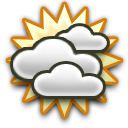
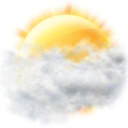
Major refactoring of the refresh logic.  Also, new image theme.

diff --git a/WeatherView.mm b/WeatherView.mm
@@ -10,8 +10,10 @@
 #import "WeatherView.h"
 #import <substrate.h>
 #import <SpringBoard/SBApplicationIcon.h>
+#import <SpringBoard/SleepProofTimer.h>
 #import <UIKit/UIStringDrawing.h>
 #import <UIKit/UIKit.h>
+#import <Foundation/NSObjCRuntime.h>
 
 @implementation WeatherView
 
@@ -19,6 +21,24 @@
 @synthesize location;
 @synthesize temp;
 @synthesize code;
+@synthesize refreshInterval;
+@synthesize nextRefreshTime;
+@synthesize lastUpdateTime;
+
++ (NSDictionary*) preferences
+{
+	NSBundle* bundle = [NSBundle mainBundle];
+	NSString* settingsPath = [bundle pathForResource:@"com.ashman.WeatherIcon" ofType:@"plist"];
+	NSLog(@"WI: Settings: %@", settingsPath);
+	if (settingsPath)
+	{
+		NSDictionary* dict = [[NSDictionary alloc] initWithContentsOfFile:settingsPath];
+		[dict autorelease];
+		return dict;
+	}
+
+	return nil;
+}
 
 - (id) initWithIcon:(SBApplicationIcon*)icon
 {
@@ -28,15 +48,13 @@
 	self.temp = @"?";
 	self.code = @"3200";
 	self.isCelsius = false;
+	self.refreshInterval = 900;
+	self.opaque = NO;
+	self.userInteractionEnabled = NO;
 
-	NSBundle* bundle = [NSBundle mainBundle];
-	NSString* settingsPath = [bundle pathForResource:@"com.ashman.WeatherIcon" ofType:@"plist"];
-	NSLog(@"WI: Settings: %@", settingsPath);
-	if (settingsPath)
+	NSDictionary* dict = [WeatherView preferences];
+	if (dict)
 	{
-		NSDictionary* dict = [[NSDictionary alloc] initWithContentsOfFile:settingsPath];
-		[dict autorelease];
-
 		if (NSString* loc = [dict objectForKey:@"Location"])
 			self.location = [[NSString alloc] initWithString:loc];
 		NSLog(@"WI: Location: %@", self.location);
@@ -44,19 +62,21 @@
 		if (NSNumber* celsius = [dict objectForKey:@"Celsius"])
 			self.isCelsius = [celsius boolValue];
 		NSLog(@"WI: Celsius: %@", (self.isCelsius ? @"YES" : @"NO"));
+
+		if (NSNumber* interval = [dict objectForKey:@"RefreshInterval"])
+			self.refreshInterval = ([interval intValue] * 60);
+		NSLog(@"WI: Refresh Interval: %d seconds", self.refreshInterval);
 	}	
 	
         _icon = icon;
 
 	_image = [[UIImageView alloc] initWithFrame:CGRectMake((rect.size.width - 35) / 2, 4, 35, 35)];
 	[self addSubview:_image];
-	
-	// refresh the weather info
-	[self refresh];
 
+	self.nextRefreshTime = [NSDate date];
+	
 	return ret;
 }
-
 
 - (void) drawRect:(CGRect) rect
 {
@@ -73,7 +93,7 @@
 //        float leeway(10);
 //        CGSize tempSize = [self.temp sizeWithFont:[UIFont systemFontOfSize:14]];
 	float width = [self.temp length] * 8;
-	NSLog(@"WI: Size? %@", width);
+//	NSLog(@"WI: Size? %@", width);
 	NSString* t = [self.temp stringByAppendingString:@"\u00B0"];
 	[t drawAtPoint:CGPointMake((viewWidth + 1 - width) / 2, 38) withStyle:tempStyle];
 //        NSLog(@"WI: Rendered temp.");
@@ -91,6 +111,11 @@ qualifiedName:(NSString *)qName
 		NSLog(@"WI: Temp: %@", self.temp);
 		self.code = [[NSString alloc] initWithString:[attributeDict objectForKey:@"code"]];
 		NSLog(@"WI: Code: %@", self.code);
+
+//		if (self.lastUpdateTime)
+//			[self.lastUpdateTime release];
+
+		self.lastUpdateTime = [[NSDate alloc] init];
 	}
 }
 
@@ -109,15 +134,35 @@ foundCharacters:(NSString *)string
 
 - (void) refresh
 {
-	NSLog(@"WI: Refreshing weather...");
-	if (self.location)
+	NSDate* now = [NSDate date];
+	NSLog(@"WI: Checking refresh dates: %@ vs %@", now, self.nextRefreshTime);
+
+	// are we ready for an update?
+	if ([now compare:self.nextRefreshTime] == NSOrderedAscending)
 	{
-		NSString* urlStr = [NSString stringWithFormat:@"http://weather.yahooapis.com/forecastrss?p=%@&u=%@", self.location, (self.isCelsius ? @"c" : @"f")];
-		NSURL* url = [NSURL URLWithString:urlStr];
-		NSXMLParser* parser = [[NSXMLParser alloc] initWithContentsOfURL:url];
-		[parser setDelegate:self];
-		[parser parse];
-		[parser release];
+		NSLog(@"WI: No refresh yet.");
+		return;
+	}
+
+	if (!self.location)
+	{
+		NSLog(@"WI: No location set.");
+		return;
+	}
+
+	NSLog(@"WI: Refreshing weather...");
+	NSString* urlStr = [NSString stringWithFormat:@"http://weather.yahooapis.com/forecastrss?p=%@&u=%@", self.location, (self.isCelsius ? @"c" : @"f")];
+	NSURL* url = [NSURL URLWithString:urlStr];
+	NSXMLParser* parser = [[NSXMLParser alloc] initWithContentsOfURL:url];
+	[parser setDelegate:self];
+	[parser parse];
+	[parser release];
+
+	NSLog(@"WI: Did the update succeed? %@ vs %@", self.lastUpdateTime, self.nextRefreshTime);
+	if (!self.lastUpdateTime || [self.lastUpdateTime compare:self.nextRefreshTime] == NSOrderedAscending)
+	{
+		NSLog(@"WI: Update failed.");
+		return;
 	}
 
 	if (!self.temp)
@@ -136,12 +181,12 @@ foundCharacters:(NSString *)string
 		CGImageAlphaInfo alphaInfo = CGImageGetAlphaInfo(imageRef);
 		CGRect iconRect = CGRectMake(0, 0, 35, 35);
 	
-	// There's a wierdness with kCGImageAlphaNone and CGBitmapContextCreate
-	// see Supported Pixel Formats in the Quartz 2D Programming Guide
-	// Creating a Bitmap Graphics Context section
-	// only RGB 8 bit images with alpha of kCGImageAlphaNoneSkipFirst, kCGImageAlphaNoneSkipLast, kCGImageAlphaPremultipliedFirst,
-	// and kCGImageAlphaPremultipliedLast, with a few other oddball image kinds are supported
-	// The images on input here are likely to be png or jpeg files
+		// There's a wierdness with kCGImageAlphaNone and CGBitmapContextCreate
+		// see Supported Pixel Formats in the Quartz 2D Programming Guide
+		// Creating a Bitmap Graphics Context section
+		// only RGB 8 bit images with alpha of kCGImageAlphaNoneSkipFirst, kCGImageAlphaNoneSkipLast, kCGImageAlphaPremultipliedFirst,
+		// and kCGImageAlphaPremultipliedLast, with a few other oddball image kinds are supported
+		// The images on input here are likely to be png or jpeg files
 		if (alphaInfo == kCGImageAlphaNone)
 			alphaInfo = kCGImageAlphaNoneSkipLast;
 
@@ -172,11 +217,14 @@ foundCharacters:(NSString *)string
 		_image.image = nil;
 	}
 
-	[_temp setText:self.temp];
-
 	[_image setNeedsDisplay];
-	[_temp setNeedsDisplay];
 	[self setNeedsDisplay];
+
+//	if (self.nextRefreshTime)
+//		[self.nextRefreshTime release];
+	
+	self.nextRefreshTime = [[NSDate alloc] initWithTimeIntervalSinceNow:self.refreshInterval];
+	NSLog(@"WI: Next refresh time: %@", self.nextRefreshTime);
 }
 
 @end

diff --git a/WeatherIcon.mm b/WeatherIcon.mm
@@ -10,39 +10,64 @@
 #include <substrate.h>
 #import "WeatherView.h"
 #import <SpringBoard/SBApplicationIcon.h>
-#import <SpringBoard/SBBookmarkIcon.h>
-#import <SpringBoard/SBCalendarController.h>
-#import <SpringBoard/CDStructures.h>
+#import <SpringBoard/SBApplication.h>
+#import <SpringBoard/SBAwayController.h>
 #import <UIKit/UIKit.h>
  
 @protocol WeatherIcon
 - (id) wi_initWithApplication:(id) app;
+- (void) wi__unlockWithSound:(BOOL) b;
+- (BOOL) wi_deactivate;
 @end
 
-static bool _settingsLoaded = false;
-static bool _celsius = false;
-
-static NSTimer  *_timer;
+static NSString* _weatherBundleIdentifier;
 static WeatherView* _view;
 
 static void $initView$(SBApplicationIcon *icon) 
 {
-
 	_view = [[WeatherView alloc] initWithIcon:icon];
-	_view.opaque = NO;
-	_view.userInteractionEnabled = NO;
-
-	_timer = [NSTimer scheduledTimerWithTimeInterval:1800 target:_view selector:@selector(refresh) userInfo:nil repeats:YES];
-
 	[icon addSubview:_view];
+
+	[_view refresh];
+}
+
+static BOOL $SBApplication$deactivate(SBApplication<WeatherIcon> *self, SEL sel) 
+{
+	NSLog(@"WI: Deactivating...");
+	if (_view)
+		[_view refresh];
+
+	return [self wi_deactivate];
+}
+
+static void $SBAwayController$_unlockWithSound$(SBAwayController<WeatherIcon> *self, SEL sel, BOOL b) 
+{
+	[self wi__unlockWithSound:b];
+
+	if (_view)
+		[_view refresh];
 }
 
 static id $SBApplicationIcon$initWithApplication$(SBApplicationIcon<WeatherIcon> *self, SEL sel, id app) 
 {
-	id ret =[self wi_initWithApplication:app];
+	id ret = [self wi_initWithApplication:app];
 
-	if ([[app bundleIdentifier] isEqualToString:@"com.apple.weather"])
+	if (!_weatherBundleIdentifier)
 	{
+		NSString* bundleIdentifier = @"com.apple.weather";
+	
+		NSDictionary* prefs = [WeatherView preferences];
+		if (prefs)
+			if (NSString* bi = [prefs objectForKey:@"WeatherBundleIdentifier"])
+				bundleIdentifier = bi;
+
+		NSLog(@"WI: Linking to %@", bundleIdentifier);
+		_weatherBundleIdentifier = [[NSString stringWithString:bundleIdentifier] retain];
+	}
+
+	if ([[app bundleIdentifier] isEqualToString:_weatherBundleIdentifier])
+	{
+		NSLog(@"WI: Linking weather icon to %@", _weatherBundleIdentifier);
 		$initView$(self);
 	}
 
@@ -55,7 +80,11 @@ extern "C" void WeatherIconInitialize() {
 
 	// Get the SBIcon class
 	Class $SBApplicationIcon = objc_getClass("SBApplicationIcon");
+	Class $SBApplication = objc_getClass("SBApplication");
+	Class $SBAwayController = objc_getClass("SBAwayController");
 	
 	// MSHookMessage is what we use to redirect the methods to our own
 	MSHookMessage($SBApplicationIcon, @selector(initWithApplication:), (IMP) &$SBApplicationIcon$initWithApplication$, "wi_");
+	MSHookMessage($SBApplication, @selector(deactivate), (IMP) &$SBApplication$deactivate, "wi_");
+	MSHookMessage($SBAwayController, @selector(_unlockWithSound:), (IMP) &$SBAwayController$_unlockWithSound$, "wi_");
 }

diff --git a/WeatherView.h b/WeatherView.h
@@ -14,14 +14,17 @@
 {
 	SBApplicationIcon *_icon;
 	UIImageView *_image;
-	UILabel *_temp;
 }
 
 @property(nonatomic) BOOL isCelsius;
-@property(nonatomic) NSString* location;
-@property(nonatomic) NSString* temp;
-@property(nonatomic) NSString* code;
+@property(nonatomic retain) NSString* location;
+@property(nonatomic retain) NSString* temp;
+@property(nonatomic retain) NSString* code;
+@property(nonatomic) int refreshInterval;
+@property(nonatomic retain) NSDate* nextRefreshTime;
+@property(nonatomic retain) NSDate* lastUpdateTime;
 
++ (NSDictionary*)preferences;
 - (id)initWithIcon:(SBApplicationIcon*)icon;
 - (void)refresh;
 - (void)drawRect:(CGRect)rect;
